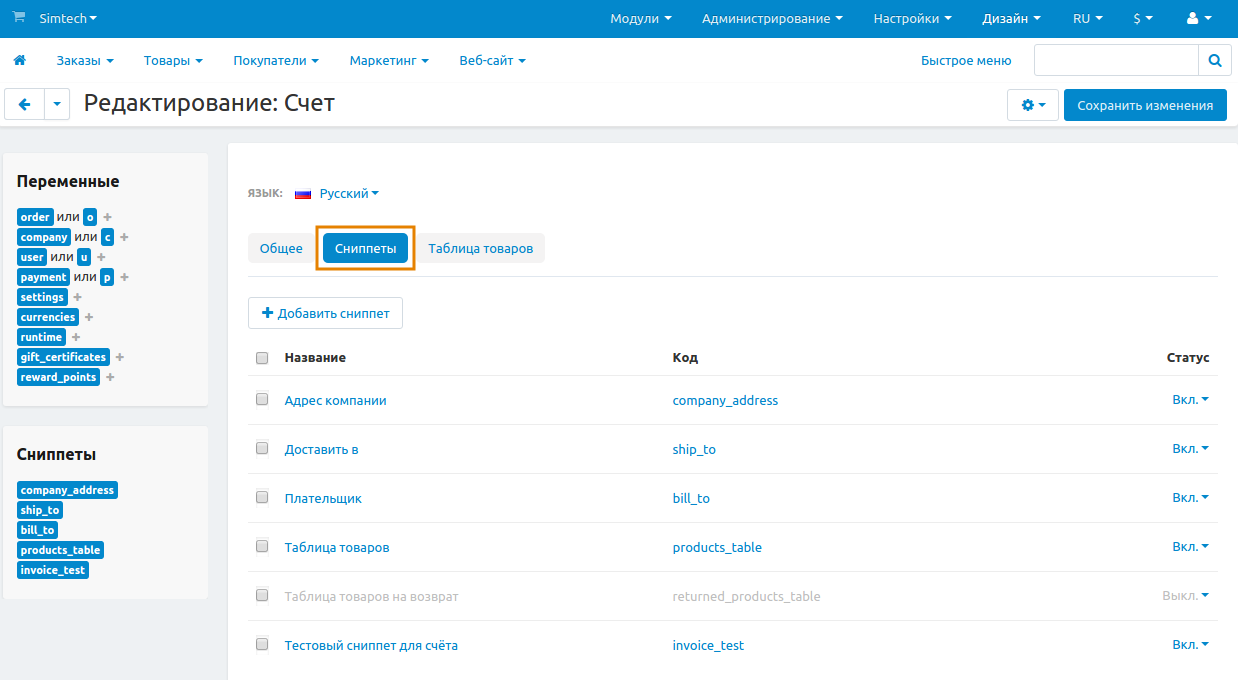
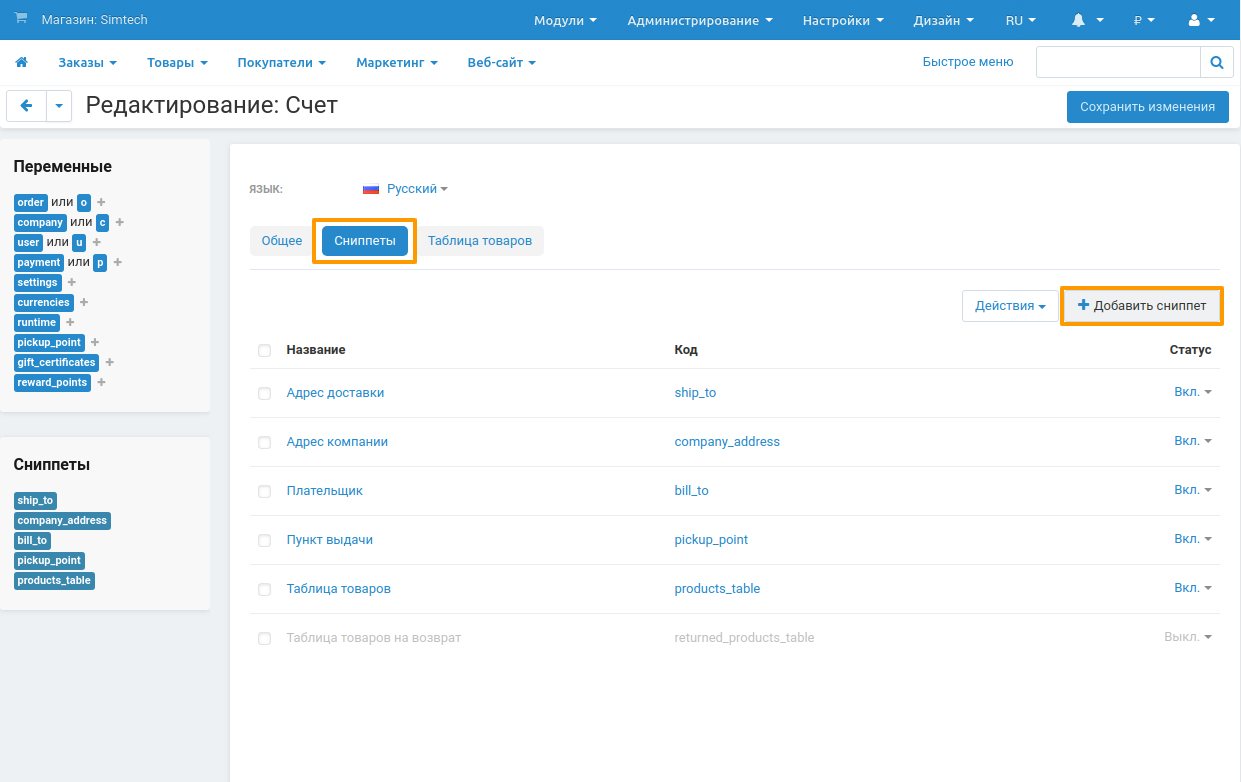
Ru: User Guide: Look And Feel: Documents: Screenshot update. Wording changed.

diff --git a/ru/user_guide/look_and_feel/documents/document_snippets.rst b/ru/user_guide/look_and_feel/documents/document_snippets.rst
@@ -20,7 +20,7 @@
 Управление сниппетами
 =====================
 
-Список сниппетов для документов доступен в меню **Дизайн → Документы**. Выберите нужный документ и переключитесь на вкладку **Сниппеты**. На этой странице вы можете добавлять, редактировать и удалять сниппеты.
+Список сниппетов для документов доступен в меню **Администрирование → Уведомления → Документы**. Выберите нужный документ и переключитесь на вкладку **Сниппеты**. На этой странице вы можете добавлять, редактировать и удалять сниппеты.
 
 .. important::
 
@@ -34,7 +34,7 @@
 Добавить/Редактировать сниппет
 ------------------------------
 
-1. Чтобы добавить сниппет, нажмите кнопку **+** в правом верхнем углу экрана. Для редактирования существующего сниппета щёлкните по его названию.
+1. Чтобы добавить сниппет, нажмите кнопку **+ Добавить сниппет** в правом верхнем углу. Для редактирования существующего сниппета щёлкните по его названию.
 
 2. В появившемся окне отредактируйте сниппет:
 
@@ -66,7 +66,7 @@
 
   1. Щёклните по флажкам рядом со сниппетами, которые хотите удалить.
 
-  2. Нажмите на **кнопку с изображением шестерёнки** в правом верхнем углу страницы.
+  2. Нажмите на **Действия** в правом верхнем углу страницы.
 
   3. Выберите **Удалить выбранные**.
 
@@ -74,7 +74,7 @@
 Экспортировать и импортировать сниппеты
 ---------------------------------------
 
-Все сниппеты выбранного документа экспортируются и импортируются вместе с документом в одном файле формата XML. Для экспорта и импорта сниппетов нажмите на кнопку с изображением шестерёнки в меню **Дизайн → Документы**. Подробная инструкция представлена в :doc:`этой статье <document_export_and_import>`.
+Все сниппеты выбранного документа экспортируются и импортируются вместе с документом в одном файле формата XML. Для экспорта и импорта сниппетов нажмите на кнопку с изображением шестерёнки в меню **Администрирование → Уведомления → Документы**. Подробная инструкция представлена в :doc:`этой статье <document_export_and_import>`.
 
 .. important::
 

diff --git a/ru/user_guide/look_and_feel/documents/enable_document_editor.rst b/ru/user_guide/look_and_feel/documents/enable_document_editor.rst
@@ -4,7 +4,7 @@
 
 По умолчанию, после обновления CS-Cart до версии 4.4.1 через Центр обновлений новый редактор шаблонов выключен. Это сделано, чтобы обеспечить максимальную обратную совместимость с уже существующими модулями сторонних разработчиков.
 
-Если в меню **Дизайн** вы не видите вкладки **Документы**, это значит, что редактор в вашем магазине отключен. Чтобы включить его:
+Если в меню **Администрирование → Уведомления** вы не видите вкладки **Документы**, это значит, что редактор в вашем магазине отключен. Чтобы включить его:
 
 #. Откройте **Настройки → Внешний вид**.
 
@@ -16,7 +16,7 @@
 
 .. important::
 
-    После включения нового режима редактирования, из меню **Администрирование → Статусы → Статусы заказов** пропадут настройки, связанные с email-уведомлениями. Данные настройки становятся доступны в меню **Дизайн → Шаблоны email-уведомлений**.
+    После включения нового режима редактирования, из меню **Администрирование → Статусы → Статусы заказов** пропадут настройки, связанные с email-уведомлениями. Данные настройки становятся доступны в меню **Администрирование → Уведомления → Документы**.
 
 .. image:: img/template_mode.png
     :align: center

diff --git a/ru/user_guide/look_and_feel/documents/document_export_and_import.rst b/ru/user_guide/look_and_feel/documents/document_export_and_import.rst
@@ -14,7 +14,7 @@
 Экспорт документов
 ==================
 
-1. Откройте **Дизайн → Документы**.
+1. Откройте **Администрирование → Уведомления → Документы**.
 
 2. Отметьте галочкой документы, которые хотите экспортировать.
 
@@ -26,7 +26,7 @@
 Импорт документов
 =================
 
-1. Откройте **Дизайн → Документы**.
+1. Откройте **Администрирование → Уведомления → Документы**.
 
 2. Нажмите на кнопку с изображением шестерёнки в правом верхнем углу страницы.
 
